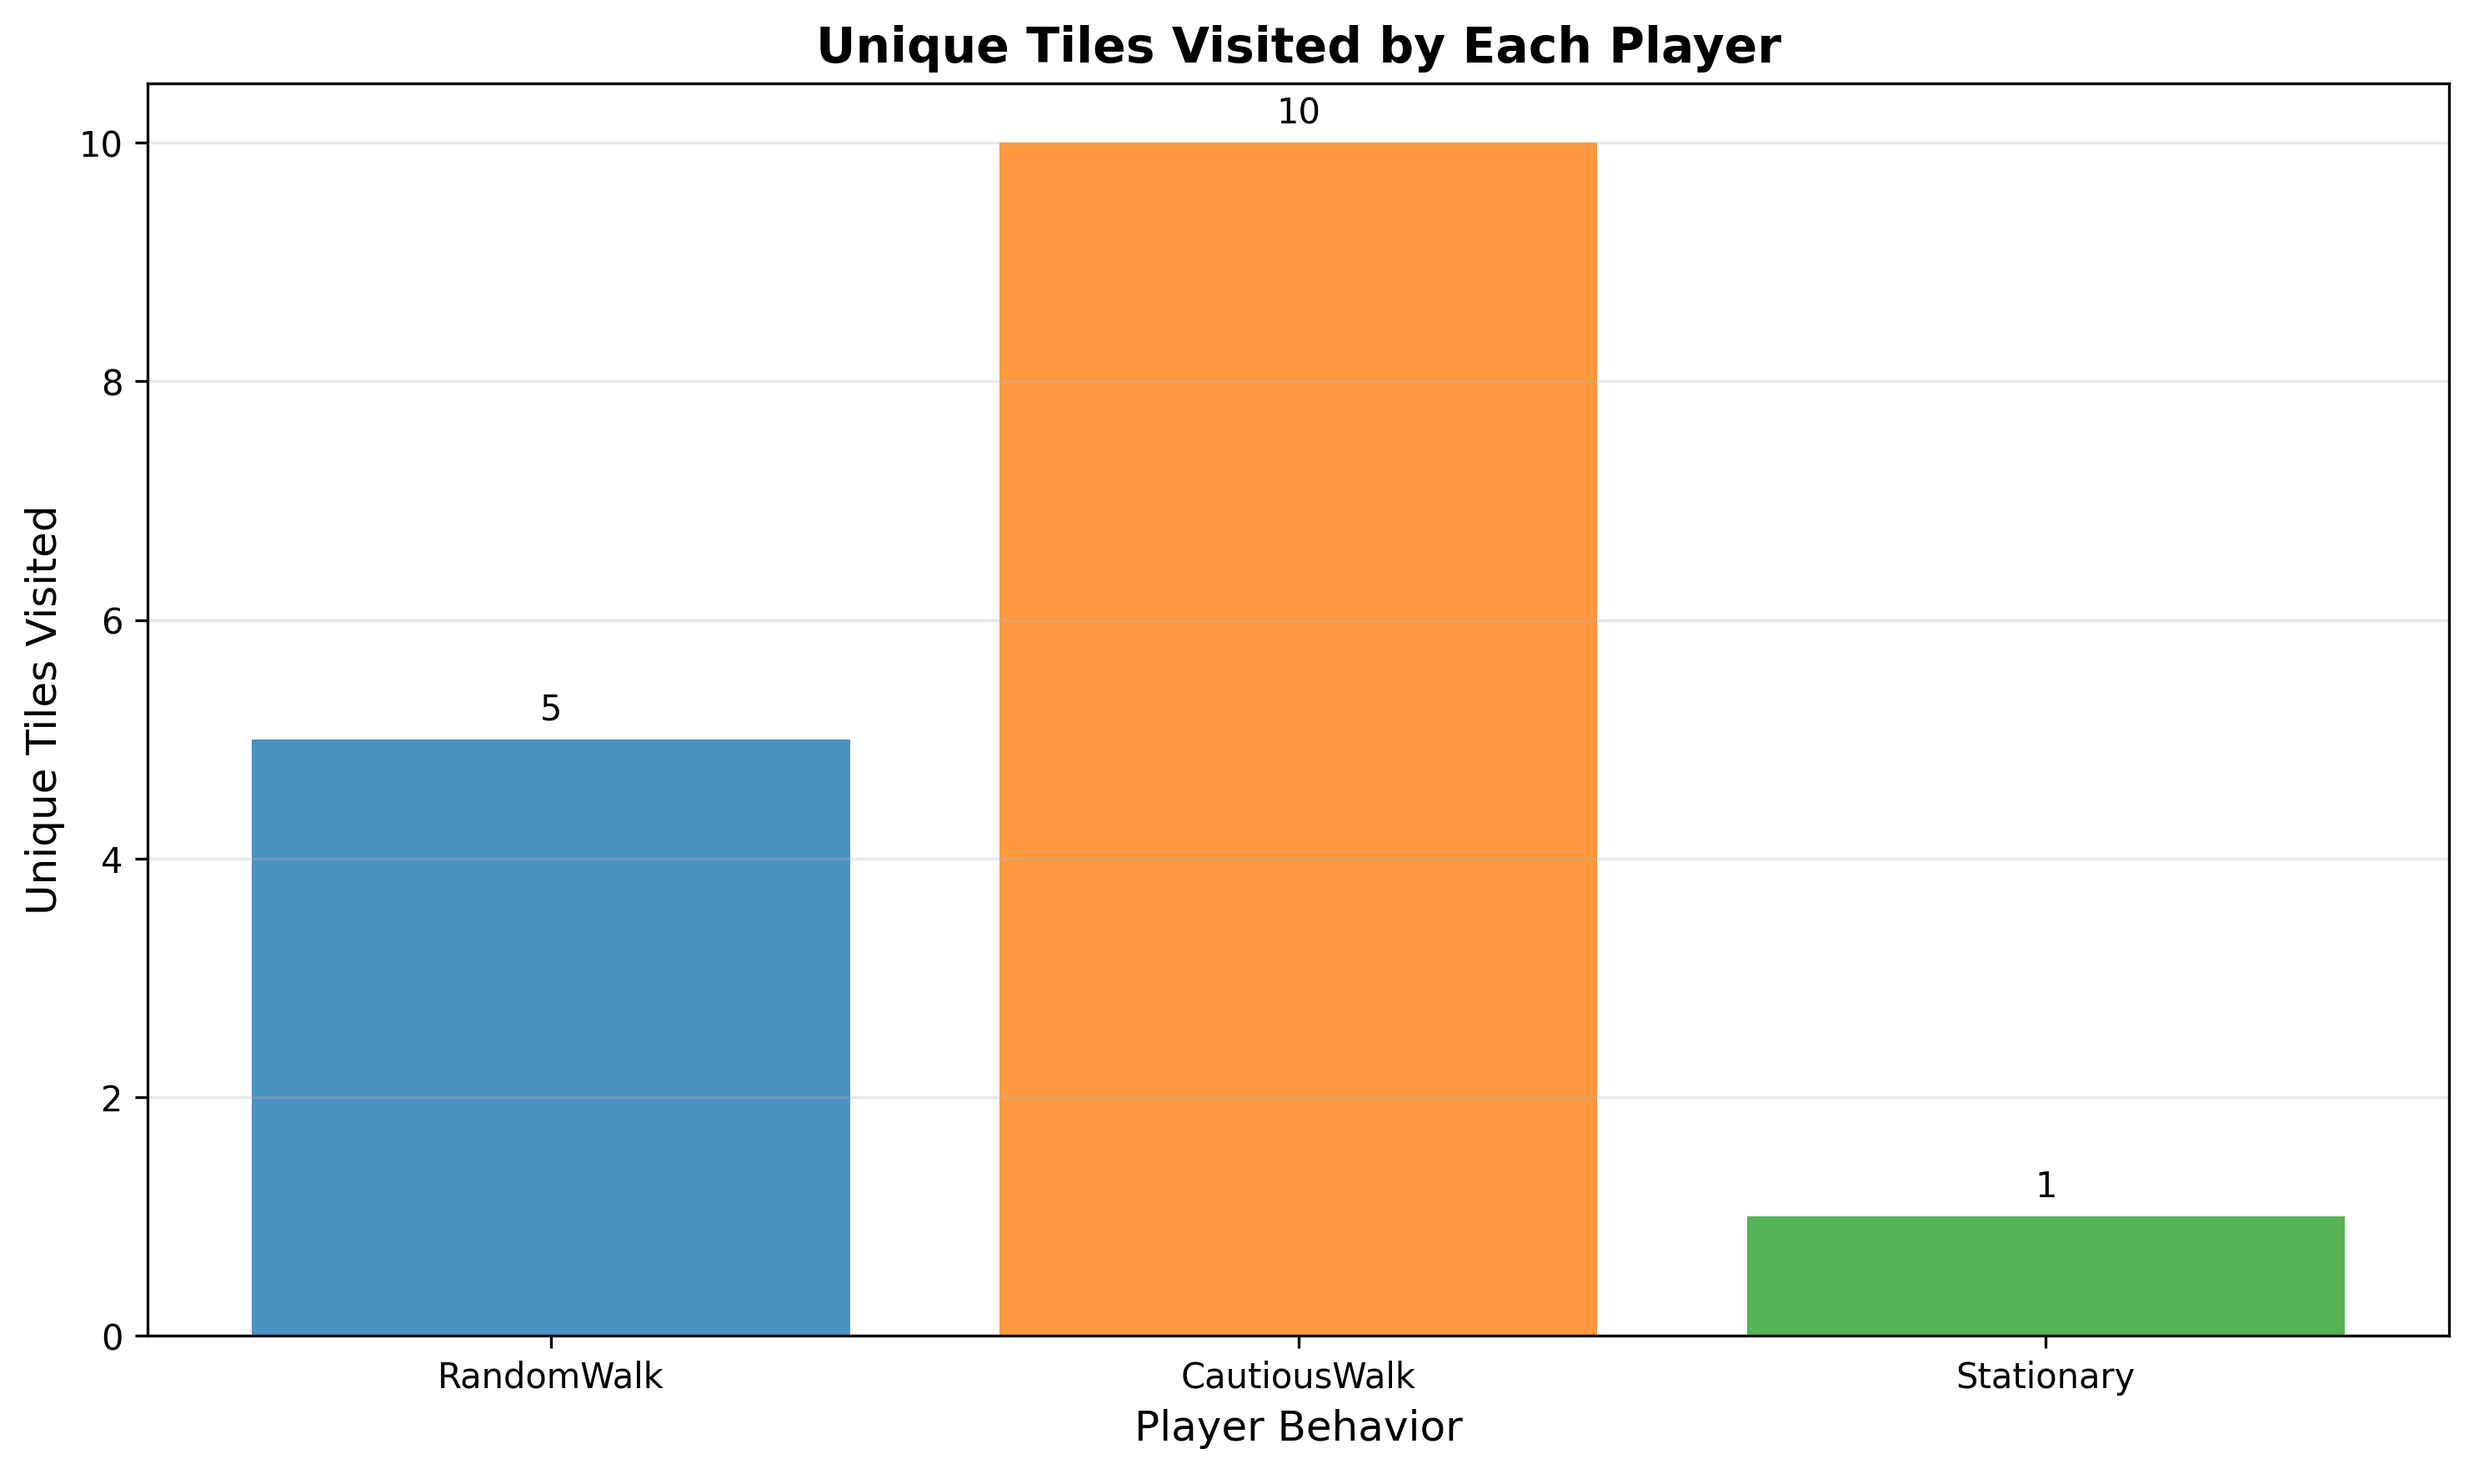
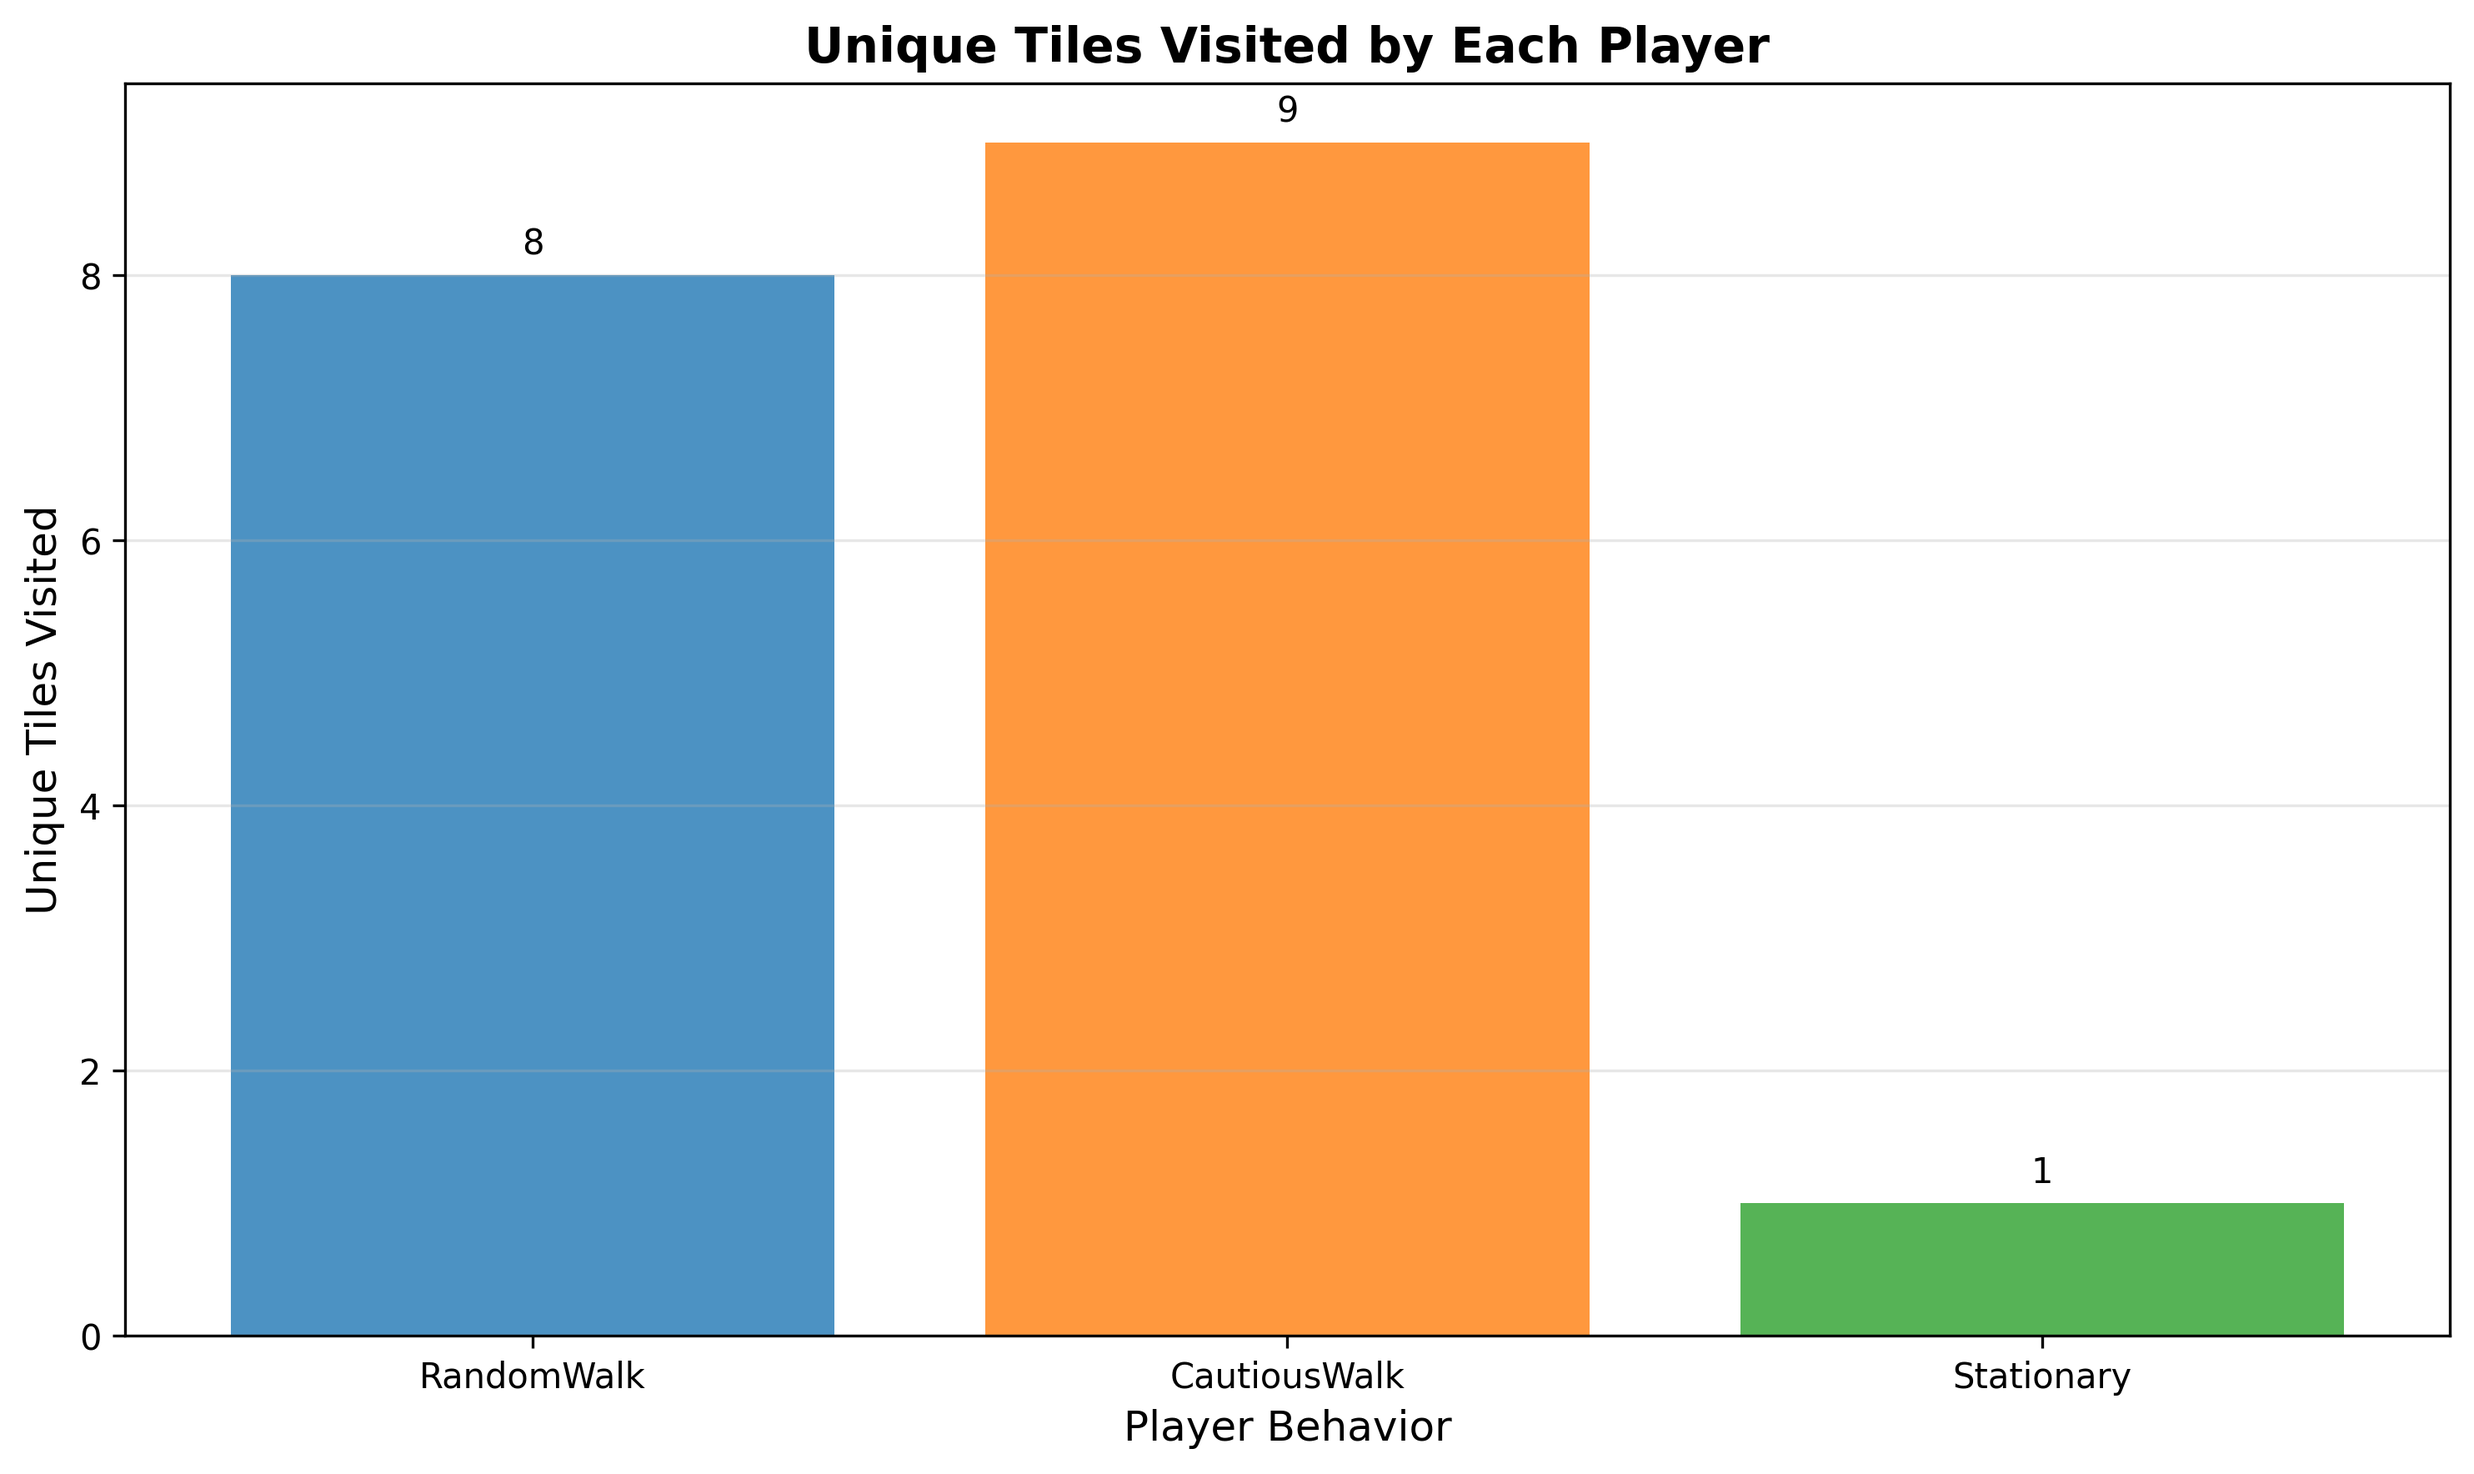
bump

diff --git a/scripts/plot_line.py b/scripts/plot_line.py
@@ -7,7 +7,7 @@ plt.figure(figsize=(10, 6))
 
 # Data for RandomWalk
 times_RandomWalk = [0, 1, 2, 3, 4, 5, 6, 7, 8]
-ages_RandomWalk = [1, 2, 0, 0, 0, 0, 0, 0, 0]
+ages_RandomWalk = [1, 0, 0, 0, 0, 0, 0, 0, 0]
 plt.plot(times_RandomWalk, ages_RandomWalk, label='RandomWalk', linewidth=2)
 
 # Data for CautiousWalk

diff --git a/scripts/plot_bar.py b/scripts/plot_bar.py
@@ -7,7 +7,7 @@ plt.figure(figsize=(10, 6))
 
 # Data
 behaviors = ['RandomWalk', 'CautiousWalk', 'Stationary']
-tile_counts = [5, 10, 1]
+tile_counts = [8, 9, 1]
 x_pos = np.arange(len(behaviors))
 
 # Create bar chart
